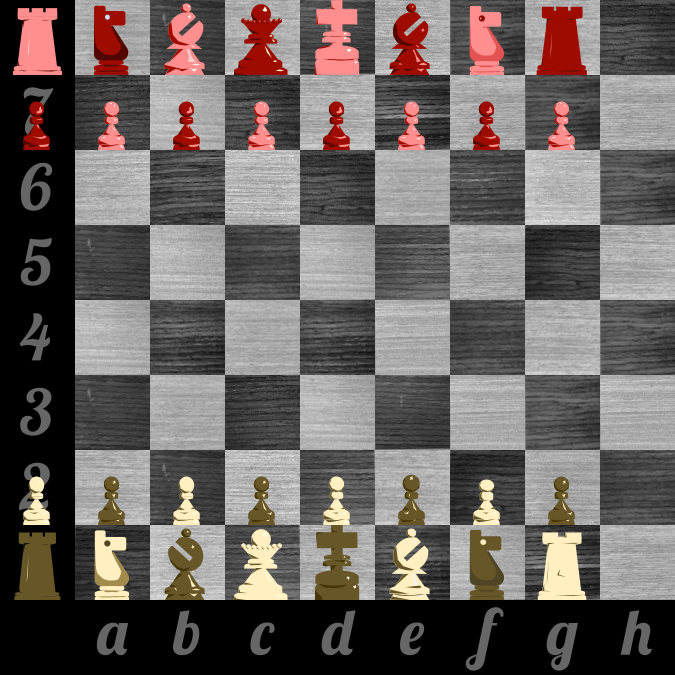
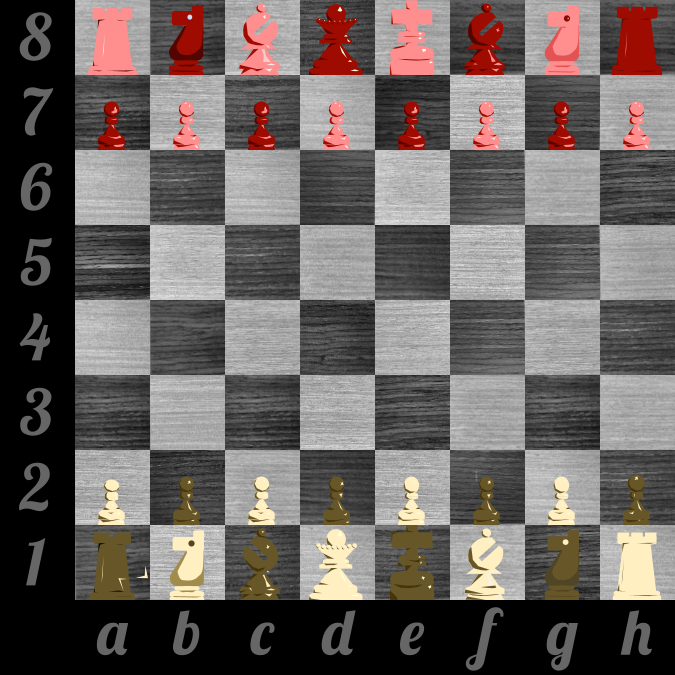
board aligned, next needs color flip

Changed region(s): [[0.0, 0.0, 1.0, 0.9022], [0.0, 0.0, 0.0933, 0.1244], [0.2489, 0.5911, 0.28, 0.6222]]

diff --git a/board_factory/src/main.rs b/board_factory/src/main.rs
@@ -623,7 +623,7 @@ fn create_chessboard_with_pieces(
 
     // Combine vertical combined with top blank
     let final_pieces_image_path = format!("games/{}/final_pieces.png", game_name);
-    combine_side_by_side(vertical_combined_path.to_string(), top_blank_path.to_string(), final_pieces_image_path.to_string())
+    combine_side_by_side(top_blank_path.to_string(), vertical_combined_path.to_string(), final_pieces_image_path.to_string())
     .map_err(|e| io::Error::new(io::ErrorKind::Other, e))?;
 
     let back_board_path = format!("games/{}/back_board.png", game_name);
